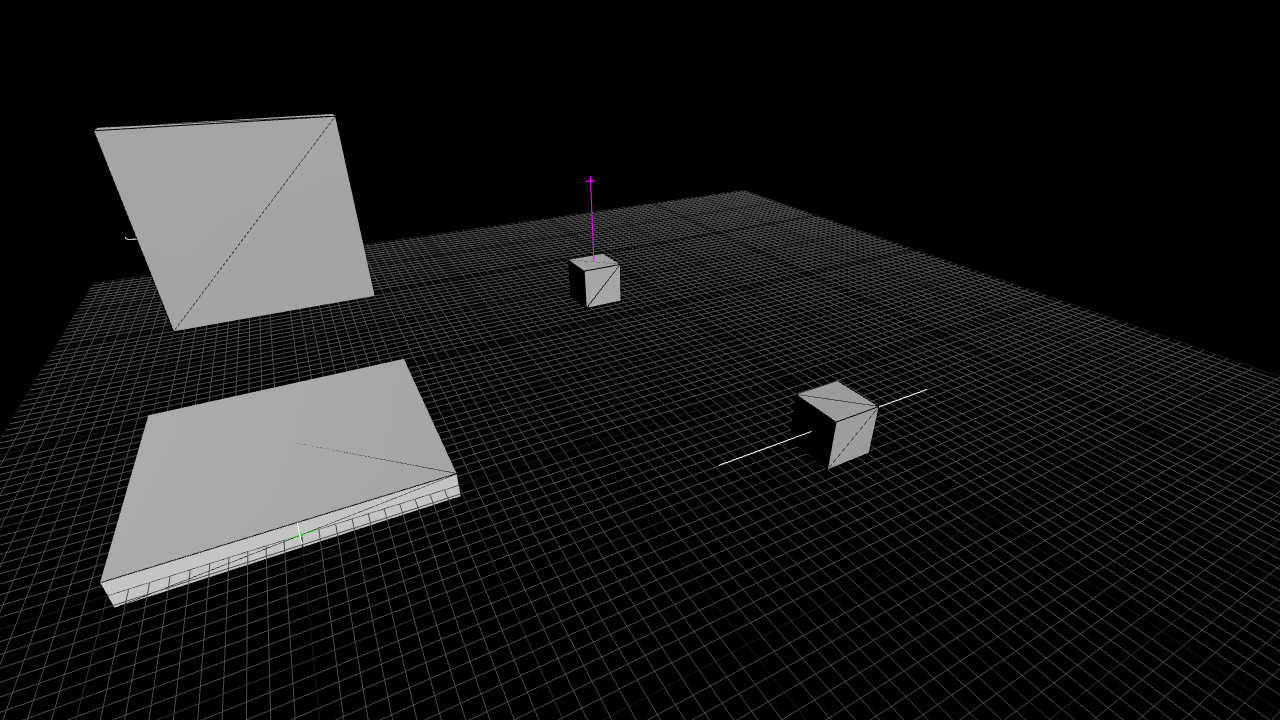
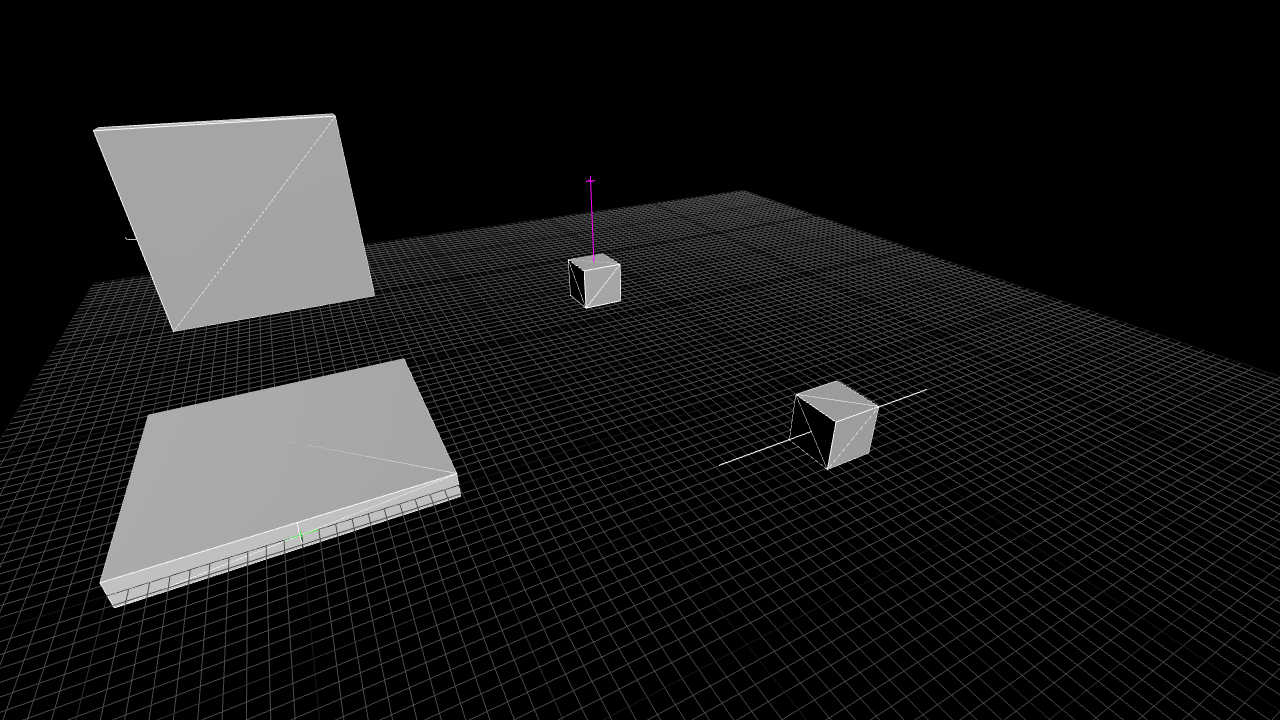
- some polish and improvements to samples, update reference images

diff --git a/core/put/source/ecs/ecs_editor.cpp b/core/put/source/ecs/ecs_editor.cpp
@@ -3180,6 +3180,8 @@ namespace put
                         mat4 rbmat = physics::get_rb_matrix(scene->physics_handles[n]);
                         dc.world_matrix = rbmat * scale;
                     }
+                    
+                    dc.v2 = vec4f::white();
 
                     pen::renderer_update_buffer(scene->physics_debug_cbuffer[n], &dc, sizeof(cmp_draw_call));
 

diff --git a/core/put/source/debug_render.cpp b/core/put/source/debug_render.cpp
@@ -268,7 +268,7 @@ namespace put
             vec3f up = cross(axis, right);
             right = cross(axis, up);
 
-            static const s32 segments = 16;
+            static const s32 segments = 32;
             f32              angle = 0.0;
             f32              angle_step = (f32)M_TWO_PI / segments;
             for (s32 i = 0; i < segments; ++i)
